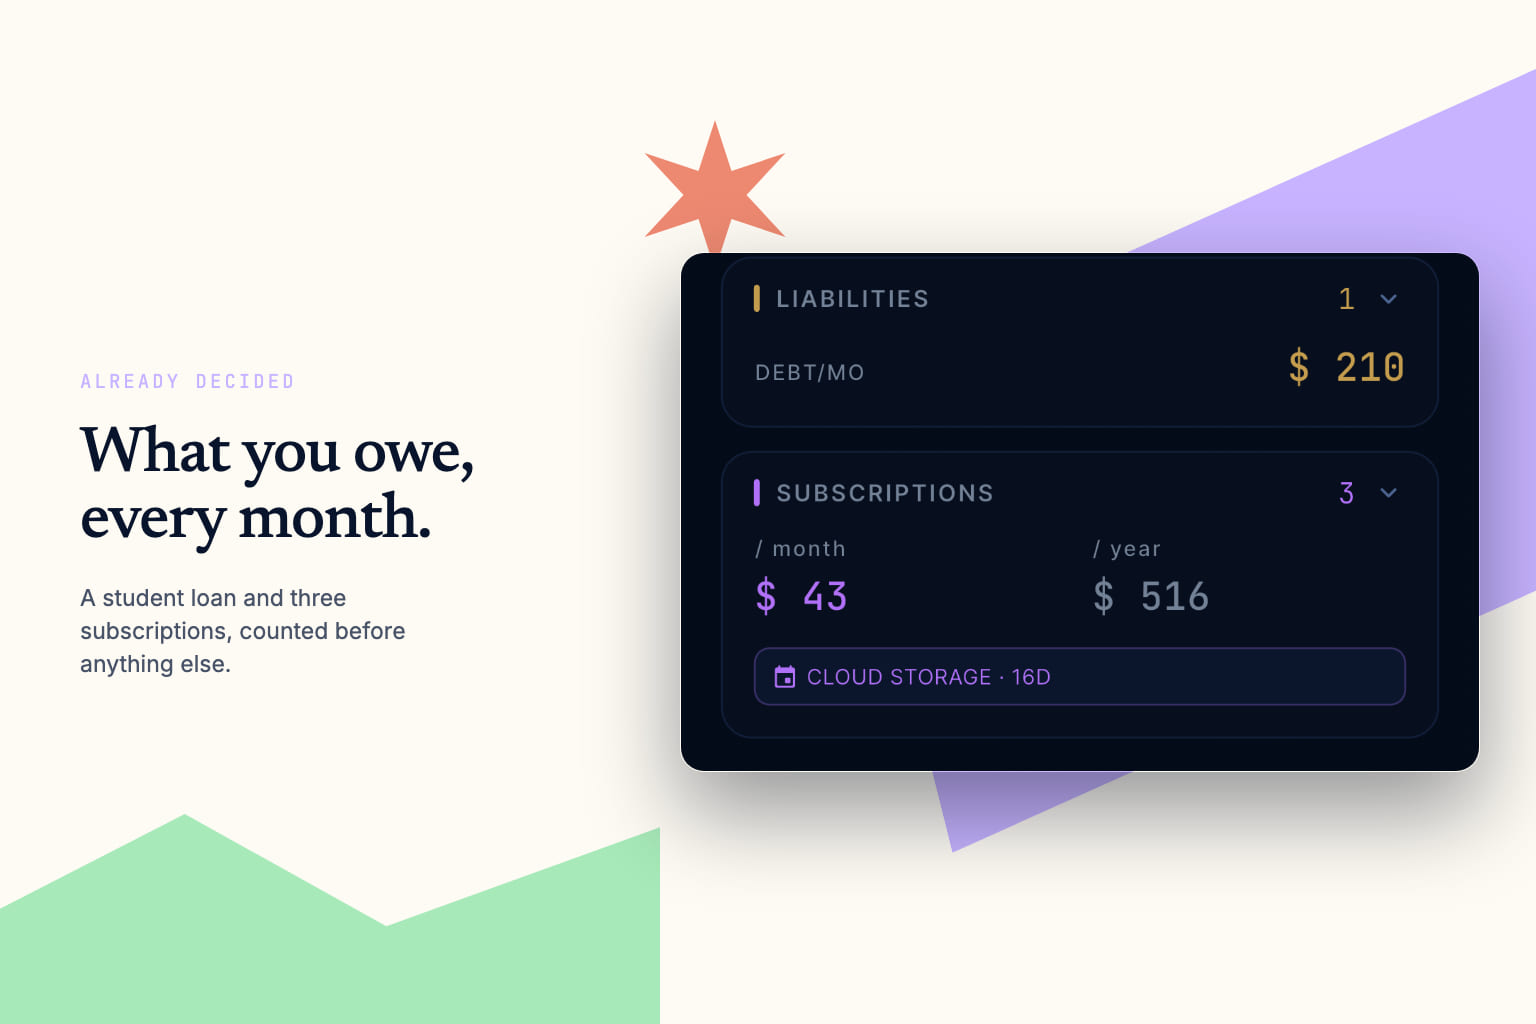
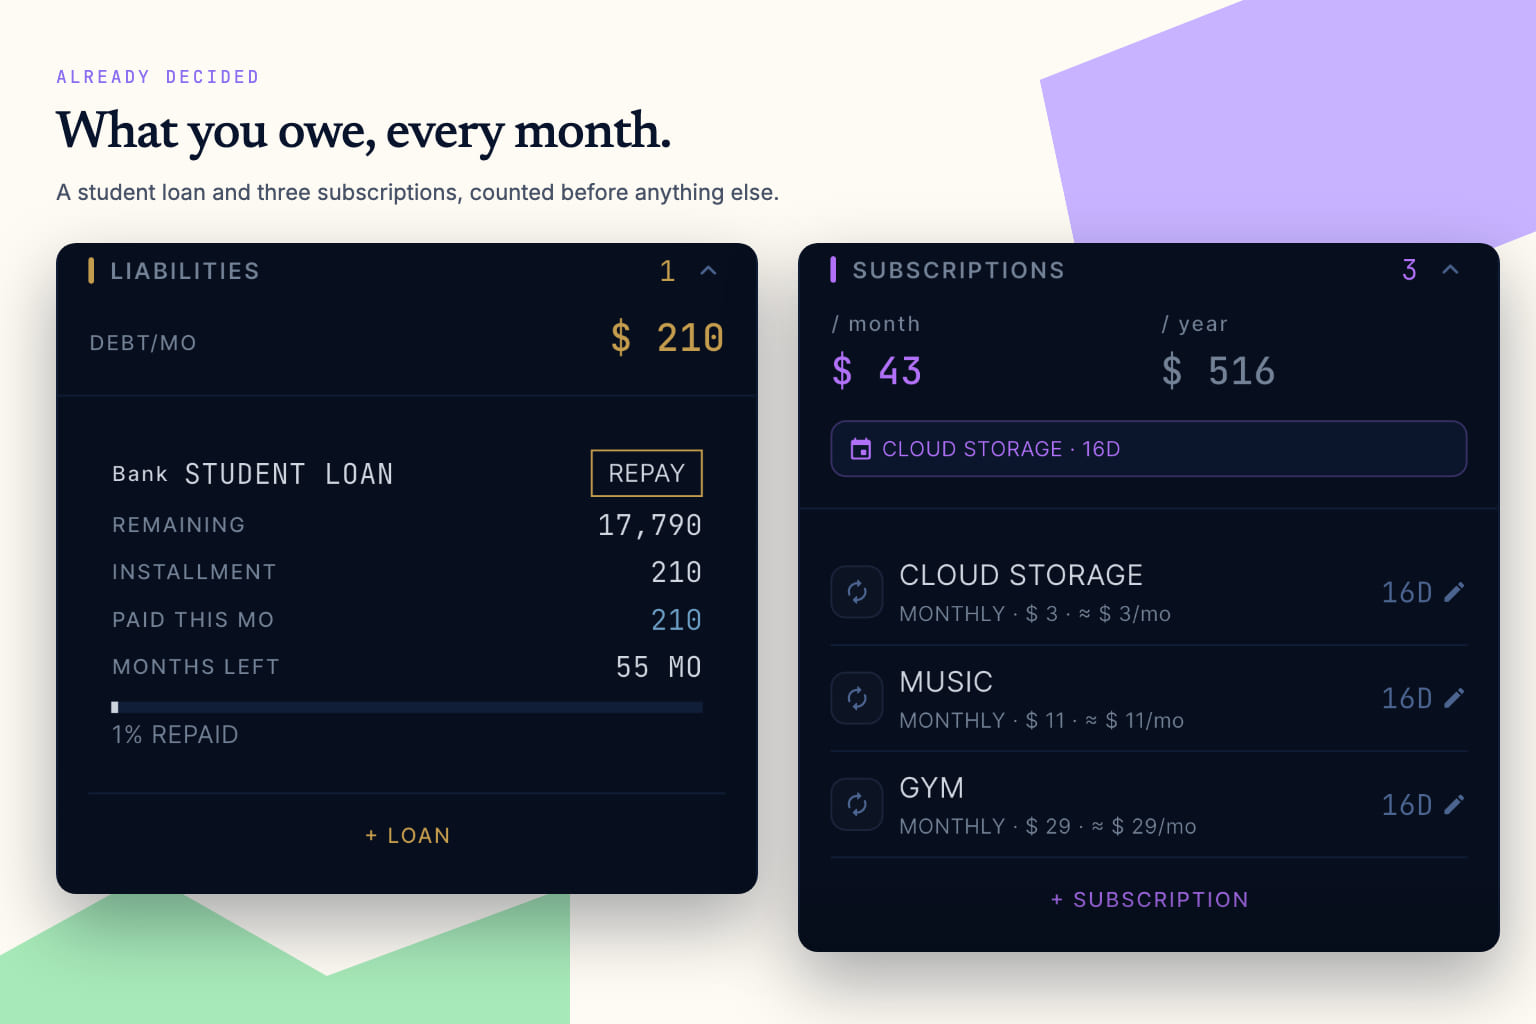
chore(marketing): open the commitments panels in the gallery slide
The loan and the subscriptions were only counted, never named. The cards
expand on a header tap, so the capture aims at the chevron and the slide
puts both open cards side by side.

Missed taps are fatal in the harness now: these panel taps had been
landing on nothing and the run still passed.

Claude-Session: https://claude.ai/code/session_01LzA2Gog4pmDHuvfaKeYrQX

diff --git a/app/integration_test/screenshots_test.dart b/app/integration_test/screenshots_test.dart
@@ -19,6 +19,7 @@ import 'package:flutter/foundation.dart';
 import 'package:flutter/material.dart';
 import 'package:flutter_test/flutter_test.dart';
 import 'package:integration_test/integration_test.dart';
+import 'package:presentation/features/loans/liabilities_panel.dart';
 import 'package:presentation/features/subscriptions/subscriptions_panel.dart';
 import 'package:presentation/router/page_indicator.dart';
 import 'package:shared_preferences/shared_preferences.dart';
@@ -39,6 +40,9 @@ const _plannedMonthlyCost = '2300';
 
 void main() {
   final binding = IntegrationTestWidgetsFlutterBinding.ensureInitialized();
+  // A tap that lands on nothing otherwise only prints a warning, and the run
+  // still captures a stale frame.
+  WidgetController.hitTestWarningShouldBeFatal = true;
 
   testWidgets('captures the store screenshots', (tester) async {
     SharedPreferences.setMockInitialValues({
@@ -84,6 +88,19 @@ void main() {
       400,
       scrollable: find.byType(Scrollable).first,
     );
+    await pumpRealTime(tester, seconds: 1);
+    // Both cards open, so the loan and the subscriptions are named rather than
+    // just counted. Subscriptions first: opening the loan above them pushes
+    // them off the frame, where a tap has nothing to hit.
+    await _expand(tester, find.byType(SubscriptionsPanel));
+    await _expand(tester, find.byType(LiabilitiesPanel));
+    await tester.scrollUntilVisible(
+      find.byType(SubscriptionsPanel),
+      200,
+      scrollable: find.byType(Scrollable).first,
+    );
+    // Come back up so the loan keeps its own heading in the frame.
+    await tester.ensureVisible(find.byType(LiabilitiesPanel));
     await pumpRealTime(tester, seconds: 1);
     await capture(
       '05-commitments',
@@ -147,6 +164,20 @@ void main() {
       ),
     );
   });
+}
+
+/// Opens a panel that starts collapsed, so the frame names what is inside it
+/// rather than only counting it.
+Future<void> _expand(WidgetTester tester, Finder panel) async {
+  // Only the header toggles the card, so aim at its chevron. Tapping the card
+  // itself lands on the summary and silently does nothing.
+  await tester.tap(
+    find.descendant(
+      of: panel,
+      matching: find.byIcon(Icons.keyboard_arrow_down_rounded),
+    ),
+  );
+  await pumpRealTime(tester, seconds: 1);
 }
 
 Future<void> _dismissSheet(WidgetTester tester) async {
